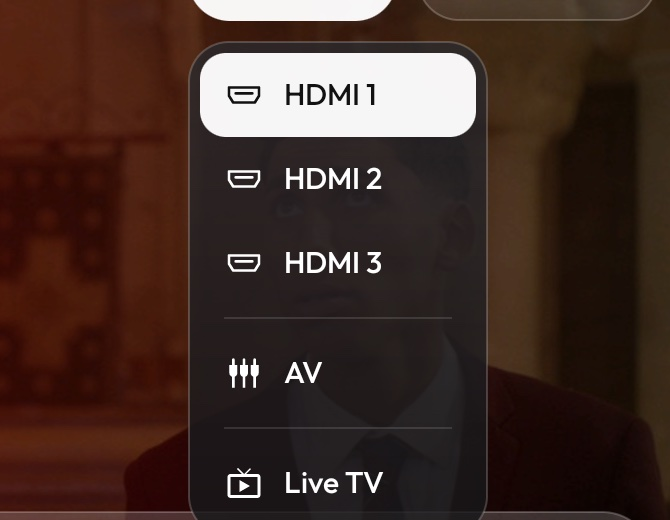
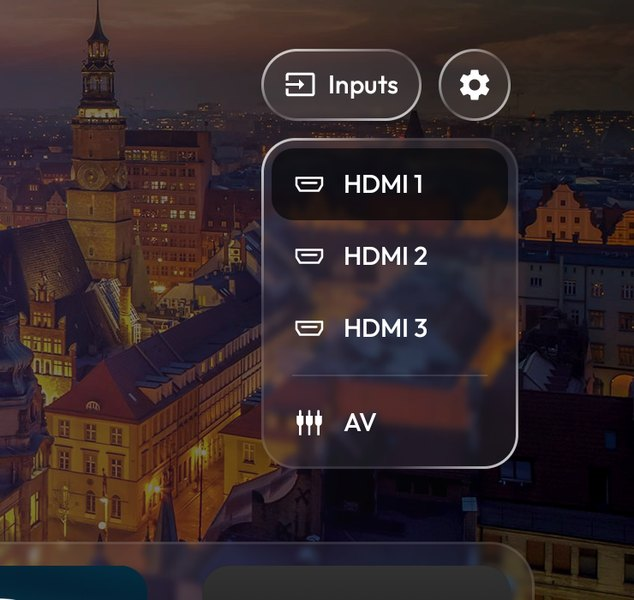
README screenshots from today's Home
The grid, Inputs and wallpaper shots showed the old design (the greeting,
a labelled Settings button, the white input selection). Now: Home with
this week's place, the scrolled grid, the glass Inputs menu and the clock
screensaver, all captured on the Xiaomi Mi TV.

diff --git a/README.md b/README.md
@@ -48,10 +48,10 @@ every week.
 
 | | |
 |---|---|
-| ![The app grid scrolled up, rows feathering out under the top bar](docs/screenshots/grid.jpg) | ![The Inputs menu with outline HDMI icons](docs/screenshots/inputs.jpg) |
-| *The grid, feathering out under the top bar* | *Inputs: HDMI 1–3, AV and Live TV* |
-| ![Home screen with a night-sky wallpaper of your own](docs/screenshots/home-night-sky.jpg) | |
-| *Your own wallpaper, with the network button hidden* | |
+| ![Home with Mount Sneffels behind the apps, its name, country and story above the glass dock](docs/screenshots/home.jpg) | ![The app grid scrolled down over the Chauvet cave, rows feathering out under the top bar](docs/screenshots/grid.jpg) |
+| *Home, with this week's place* | *Every app, feathering out under the top bar* |
+| ![The glass Inputs menu with HDMI 1 selected](docs/screenshots/inputs.jpg) | ![The clock screensaver: a grey analog dial, the time and the date](docs/screenshots/clock.jpg) |
+| *Inputs, in glass* | *The clock screensaver* |
 
 Still light: on a Xiaomi Mi TV with 1.8 GB of RAM the launcher uses about 80–100 MB and stays there over hours
 of use, one wallpaper is in memory at a time, the week's places take about 2 MB of storage, and nothing runs
